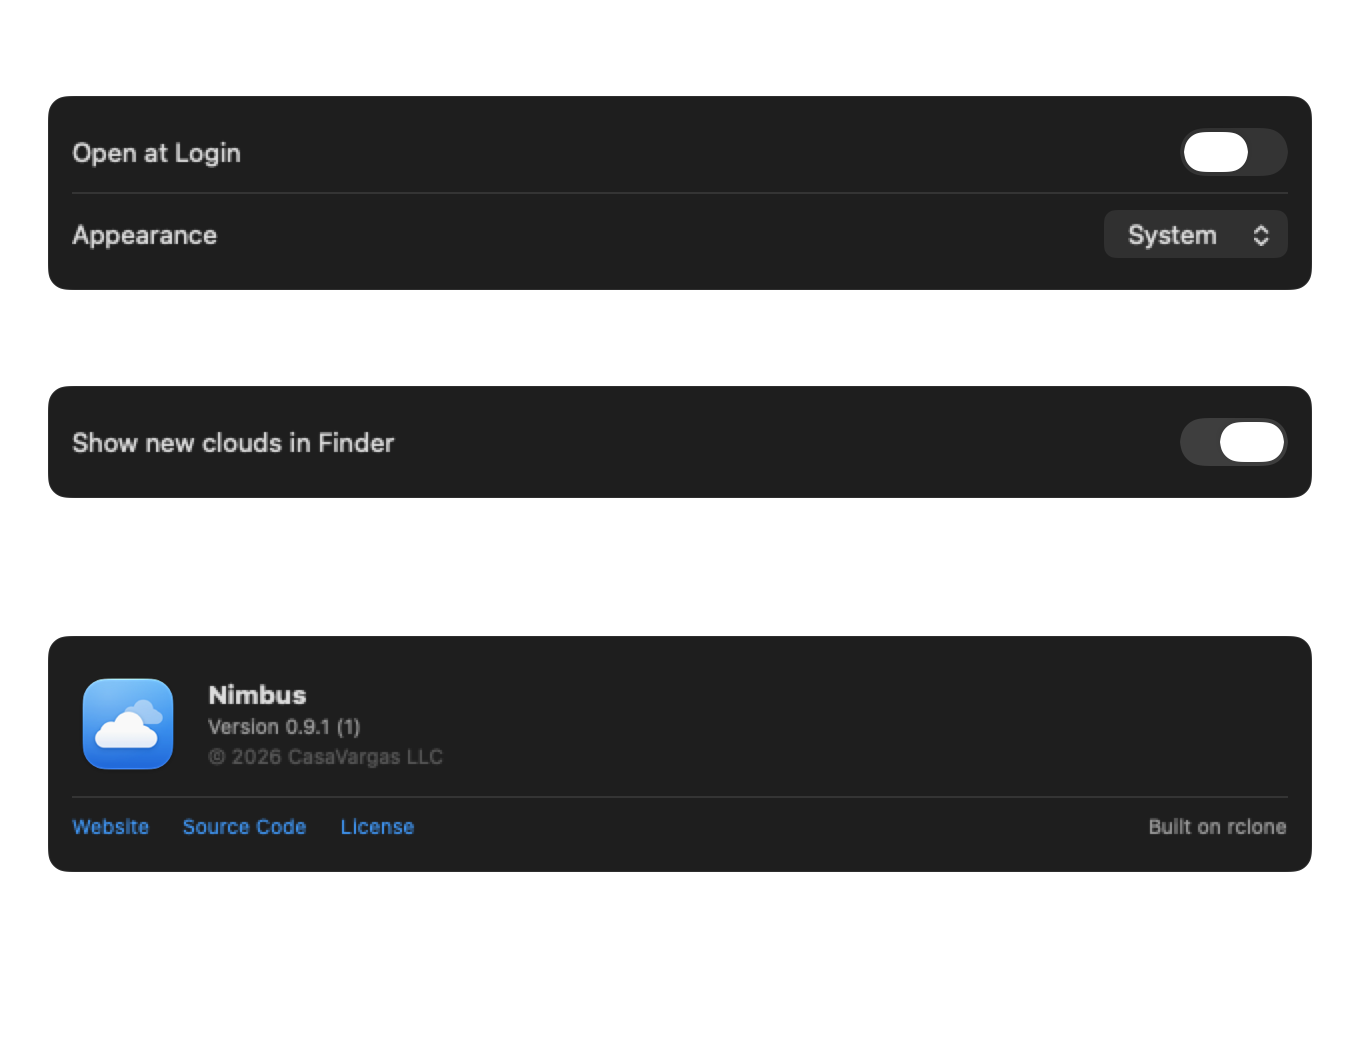
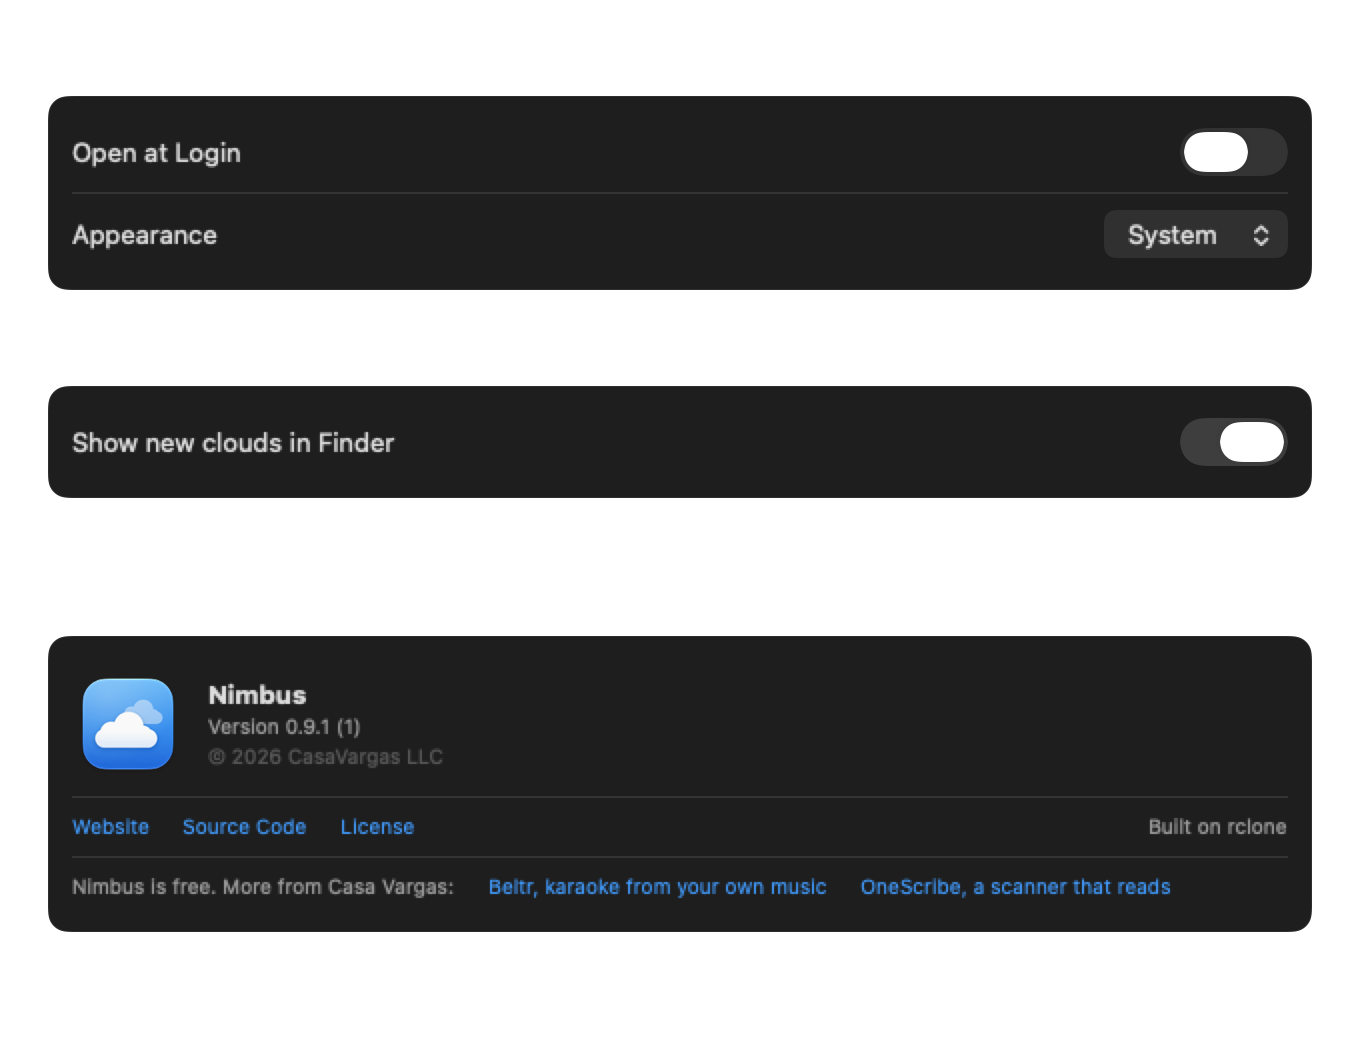
feat: Nimbus is free outright; point to Beltr and OneScribe
No price for the signed binary after all. README, the site's compare
table and license line say "Free, source and signed builds alike". The
promotion stays quiet and lands in four spots: a hero footnote and the
band on the site, a header line and Support section in the README, and
one caption row in Settings > About (Settings-General fixture
re-recorded).

Changed region(s): [[0.0309, 0.8308, 0.9882, 0.9231]]

diff --git a/site/index.html b/site/index.html
@@ -66,6 +66,7 @@
       <a class="link-arrow" href="https://github.com/CasaVargas/Nimbus">View the source</a>
     </div>
     <p class="hero__fine">Version 0.9.1 · macOS 15 or later · Apple silicon and Intel · GPL‑3.0 · Signed and notarized</p>
+    <p class="hero__fine hero__studio">Free, from the studio behind <a href="https://beltr.app/?utm_source=nimbus-site&amp;utm_medium=referral&amp;utm_campaign=nimbus-hero">Beltr</a> and <a href="https://apps.apple.com/us/app/onescribe-ai-note-scanner/id6756506734">OneScribe</a>.</p>
   </div>
   <figure class="hero__shot reveal delay-1">
     <div class="window">
@@ -356,7 +357,7 @@
       <table class="table table--light compare">
         <thead><tr><th></th><th>Nimbus</th><th>Mountain Duck</th><th>ExpanDrive</th><th>Cyberduck</th><th>rclone CLI</th></tr></thead>
         <tbody>
-          <tr><th>Price model</th><td>One‑time purchase for binaries; source is free</td><td>One‑time license per major version</td><td>One‑time license per major version*</td><td>Free, paid on the Mac App Store</td><td>Free</td></tr>
+          <tr><th>Price model</th><td>Free, source and signed builds alike</td><td>One‑time license per major version</td><td>One‑time license per major version*</td><td>Free, paid on the Mac App Store</td><td>Free</td></tr>
           <tr><th>Open source</th><td>Yes, GPL‑3.0</td><td>No</td><td>No</td><td>Yes, GPL‑3.0</td><td>Yes, MIT</td></tr>
           <tr><th>UI</th><td>Native SwiftUI and AppKit</td><td>Cocoa over a Java core</td><td>Electron*</td><td>Cocoa over a Java core</td><td>None</td></tr>
           <tr><th>Finder / mount</th><td>File Provider and NFS</td><td>File Provider and FUSE‑style</td><td>Mounts*</td><td>No mounting</td><td>FUSE or NFS</td></tr>
@@ -375,7 +376,7 @@
     <header class="section__head reveal">
       <p class="eyebrow eyebrow--blue">From the same studio</p>
       <h2>Nimbus is free.<br><span class="muted">These two pay for it.</span></h2>
-      <p class="lede">Nimbus is open source and will stay that way. Casa Vargas sells two apps, each bought once and kept. If Nimbus is useful to you, this is the way to say thanks.</p>
+      <p class="lede">Nimbus costs nothing. Not the source, not the signed app, and that will not change. Casa Vargas sells two apps, each bought once and kept, and they pay for the time. If Nimbus is useful to you, this is the way to say thanks.</p>
     </header>
     <div class="fund reveal">
       <article class="fund__card">
@@ -418,7 +419,7 @@
   <div class="wrap wrap--narrow reveal">
     <img class="cta__icon" src="assets/app-icon.png" width="96" height="96" alt="">
     <h2>Nimbus 0.9.1</h2>
-    <p class="lede">Signed with a Developer ID certificate and notarized. Gatekeeper opens it without a warning. Pre‑1.0, used daily by its author, and still growing.</p>
+    <p class="lede">Free. Signed with a Developer ID certificate and notarized, so Gatekeeper opens it without a warning. Pre‑1.0, used daily by its author, and still growing.</p>
     <div class="hero__actions">
       <a class="btn btn--primary btn--large" href="https://github.com/CasaVargas/Nimbus/releases/latest/download/Nimbus-0.9.1.dmg">Download the DMG</a>
       <a class="link-arrow" href="https://github.com/CasaVargas/Nimbus/releases">All releases</a>
@@ -427,7 +428,7 @@
       <div><dt>Requires</dt><dd>macOS 15 Sequoia or later, Apple silicon or Intel</dd></div>
       <div><dt>Engine</dt><dd>rclone on your PATH: <code>brew install rclone</code></dd></div>
       <div><dt>Verify</dt><dd>A <code>.sha256</code> sits beside every DMG</dd></div>
-      <div><dt>License</dt><dd>GPL‑3.0‑or‑later. Source is free; signed builds will be sold once, never rented</dd></div>
+      <div><dt>License</dt><dd>GPL‑3.0‑or‑later. Free, source and signed builds alike</dd></div>
     </dl>
   </div>
 </section>

diff --git a/Nimbus/Nimbus/Views/Settings/GeneralSettingsView.swift b/Nimbus/Nimbus/Views/Settings/GeneralSettingsView.swift
@@ -132,6 +132,15 @@ private struct AboutSettingsSection: View {
             }
             .font(DesignSystem.Typography.caption)
             .padding(.vertical, DesignSystem.Spacing.xs)
+            HStack(spacing: DesignSystem.Spacing.l) {
+                Text("Nimbus is free. More from Casa Vargas:")
+                    .foregroundStyle(DesignSystem.Color.semantic.textSecondary)
+                Link("Beltr, karaoke from your own music", destination: URL(string: "https://beltr.app/?utm_source=nimbus-app&utm_medium=about&utm_campaign=nimbus")!)
+                Link("OneScribe, a scanner that reads", destination: URL(string: "https://apps.apple.com/us/app/onescribe-ai-note-scanner/id6756506734")!)
+                Spacer()
+            }
+            .font(DesignSystem.Typography.caption)
+            .padding(.vertical, DesignSystem.Spacing.xs)
         }
     }
 }

diff --git a/site/styles.css b/site/styles.css
@@ -127,6 +127,9 @@ code { font-family: var(--mono); font-size: .92em; background: rgba(0,0,0,.06); 
 .hero__sub { font-size: clamp(19px, 2.2vw, 24px); line-height: 1.35; color: var(--text-2); max-width: 720px; margin: 26px auto 0; letter-spacing: -0.015em; }
 .hero__actions { display: flex; gap: 28px; align-items: center; justify-content: center; margin-top: 34px; flex-wrap: wrap; }
 .hero__fine { font-size: 13px; color: var(--text-3); margin-top: 20px; }
+.hero__studio { margin-top: 6px; }
+.hero__studio a { color: var(--text-2); text-decoration: underline; text-underline-offset: 2px; }
+.hero__studio a:hover { color: var(--blue); }
 .hero__shot { margin: 72px auto 0; max-width: 1100px; padding: 0 22px; }
 
 /* Window chrome around screenshots */

diff --git a/README.md b/README.md
@@ -9,6 +9,10 @@
 </p>
 
 <p align="center">
+  Free and open source, from the studio behind <a href="https://beltr.app/?utm_source=github&utm_medium=readme&utm_campaign=nimbus">Beltr</a> and <a href="https://apps.apple.com/us/app/onescribe-ai-note-scanner/id6756506734">OneScribe</a>.
+</p>
+
+<p align="center">
   <a href="https://github.com/CasaVargas/Nimbus/actions/workflows/ci.yml"><img src="https://github.com/CasaVargas/Nimbus/actions/workflows/ci.yml/badge.svg" alt="CI"></a>
   <img src="https://img.shields.io/badge/platform-macOS%2015%2B-blue" alt="macOS 15+">
   <img src="https://img.shields.io/badge/license-GPL--3.0--or--later-blue" alt="GPL-3.0-or-later">
@@ -116,7 +120,7 @@ Facts only; "unverified" means we did not confirm it against a current release. 
 
 | | Nimbus | Mountain Duck | ExpanDrive | Cyberduck | rclone CLI |
 |---|---|---|---|---|---|
-| Price model | One-time purchase for binaries; source is free | One-time license per major version | One-time license per major version (unverified) | Free (donations; paid on the Mac App Store) | Free |
+| Price model | Free, source and signed builds alike | One-time license per major version | One-time license per major version (unverified) | Free (donations; paid on the Mac App Store) | Free |
 | Open source | Yes, GPL-3.0-or-later | No | No | Yes, GPL-3.0 | Yes, MIT |
 | UI | Native SwiftUI/AppKit | Native Cocoa over a Java core | Electron for the UI (unverified) | Native Cocoa over a Java core | None (an experimental web GUI exists) |
 | Finder / mount | File Provider and NFS | File Provider and FUSE-style mounts | Mounts (unverified which mechanism) | No mounting; transfer client | FUSE (macFUSE) or NFS via `rclone mount` / `serve nfs` |
@@ -125,7 +129,7 @@ Facts only; "unverified" means we did not confirm it against a current release. 
 
 ## Support development
 
-Nimbus is free and open source, and will stay that way. It is built by [Casa Vargas](https://casavargas.app), which pays for the time with two apps, each bought once and kept. If Nimbus is useful to you, the best way to say thanks is to try one of them:
+Nimbus costs nothing: not the source, not the signed app, and that will not change. It is built by [Casa Vargas](https://casavargas.app), which pays for the time with two apps, each bought once and kept. If Nimbus is useful to you, the best way to say thanks is to try one of them:
 
 - **[Beltr](https://beltr.app/?utm_source=github&utm_medium=readme&utm_campaign=nimbus)**: karaoke from the music you already own, on your TV, with every phone in the room as a mic and remote. Mac, Windows and Linux. $19.99 once, five songs free to try.
 - **[OneScribe](https://apps.apple.com/us/app/onescribe-ai-note-scanner/id6756506734)**: a document scanner for iPhone and iPad that reads what it scans, with the AI running on the device. Free to scan; Pro is $9.99 once.
@@ -140,7 +144,7 @@ Issues and pull requests are welcome. Read [CONTRIBUTING.md](CONTRIBUTING.md) fo
 
 Nimbus is licensed under the GNU General Public License, version 3 or later (`SPDX-License-Identifier: GPL-3.0-or-later`). See [LICENSE](LICENSE). Copyright Casa Vargas LLC.
 
-The source is free to build and modify under those terms; prebuilt, signed binaries will be sold as a one-time purchase to fund development.
+Nimbus is free, source and signed builds alike. Development is paid for by Casa Vargas's other apps; see [Support development](#support-development).
 
 ### Legacy
 
